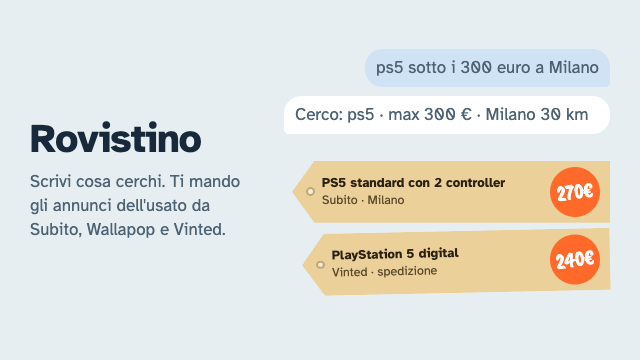
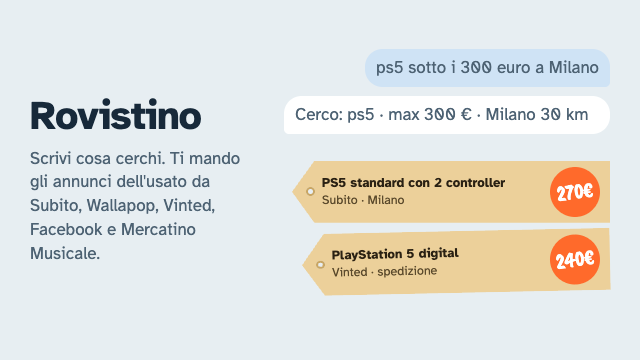
List all searched sites: Facebook Marketplace and Mercatino Musicale too

Changed region(s): [[0.0312, 0.275, 0.375, 0.4583], [0.0312, 0.55, 0.3438, 0.7333], [0.0312, 0.4889, 0.375, 0.5194]]

diff --git a/index.html b/index.html
@@ -4,11 +4,11 @@
   <meta charset="utf-8">
   <meta name="viewport" content="width=device-width, initial-scale=1">
   <title>Rovistino – Bot Telegram per cercare annunci usati</title>
-  <meta name="description" content="Rovistino è un bot Telegram gratuito che cerca annunci dell'usato su Subito, Wallapop e Vinted per prezzo, città e distanza.">
+  <meta name="description" content="Rovistino è un bot Telegram gratuito che cerca annunci dell'usato su Subito, Wallapop, Vinted, Facebook Marketplace e Mercatino Musicale per prezzo, città e distanza.">
   <meta name="robots" content="index, follow">
   <link rel="canonical" href="https://leixien.github.io/Rovistino/">
   <meta property="og:title" content="Rovistino – Bot Telegram per cercare annunci usati">
-  <meta property="og:description" content="Cerca annunci su Subito, Wallapop e Vinted direttamente da Telegram.">
+  <meta property="og:description" content="Cerca annunci su Subito, Wallapop, Vinted, Facebook Marketplace e Mercatino Musicale direttamente da Telegram.">
   <meta property="og:url" content="https://leixien.github.io/Rovistino/">
   <meta property="og:type" content="website">
   <meta property="og:image" content="https://leixien.github.io/Rovistino/assets/description.png">
@@ -27,7 +27,7 @@
     "@type": "SoftwareApplication",
     "name": "Rovistino",
     "alternateName": "@RovistinoBot",
-    "description": "Bot Telegram gratuito che cerca annunci dell'usato su Subito, Wallapop e Vinted per prezzo, città e distanza, con ricerche ripetute e avviso ribassi.",
+    "description": "Bot Telegram gratuito che cerca annunci dell'usato su Subito, Wallapop, Vinted, Facebook Marketplace e Mercatino Musicale per prezzo, città e distanza, con ricerche ripetute e avviso ribassi.",
     "url": "https://leixien.github.io/Rovistino/",
     "installUrl": "https://t.me/RovistinoBot",
     "applicationCategory": "UtilitiesApplication",
@@ -51,7 +51,7 @@
     <div class="wrap hero">
       <div>
         <h1>Rovistino: il bot Telegram per cercare annunci dell'usato</h1>
-        <p class="lede">Scrivi su Telegram cosa cerchi, con le tue parole. Rovistino cerca su Subito, Wallapop e Vinted e ti manda gli annunci più recenti, con prezzo e link.</p>
+        <p class="lede">Scrivi su Telegram cosa cerchi, con le tue parole. Rovistino cerca su Subito, Wallapop e Vinted, e se vuoi anche su Facebook Marketplace e Mercatino Musicale, e ti manda gli annunci più recenti, con prezzo e link.</p>
         <a class="button" href="https://t.me/RovistinoBot">Apri su Telegram</a>
       </div>
 
@@ -110,10 +110,10 @@
     <section>
       <div class="wrap"><div class="prose">
         <h2>Domande frequenti</h2>
-        <h3>Come ricevo un avviso quando esce un nuovo annuncio su Subito, Wallapop o Vinted?</h3>
+        <h3>Come ricevo un avviso quando esce un nuovo annuncio su Subito, Vinted o gli altri siti?</h3>
         <p>Accendi «Ricerca ripetuta» in <code>/funzioni</code>, poi scrivi per esempio <code>/ripeti ps5 max 300 a Milano ogni 15</code>. Il bot ripete la ricerca ogni 15 minuti (il minimo è 5) e ti scrive solo quando trova annunci nuovi.</p>
-        <h3>Posso cercare su Subito, Wallapop e Vinted insieme?</h3>
-        <p>Sì: una sola frase cerca su tutti e tre e ti mostra i risultati più recenti insieme. Con <code>/siti</code> scegli su quali cercare.</p>
+        <h3>Su quali siti cerca? Posso cercare su tutti insieme?</h3>
+        <p>Subito, Wallapop e Vinted sono accesi fin dall'inizio; Facebook Marketplace e Mercatino Musicale (strumenti musicali e audio) li accendi da <code>/siti</code>. Una sola frase cerca su tutti quelli accesi e ti mostra i risultati più recenti insieme. Facebook Marketplace ha bisogno di una città nella frase.</p>
         <h3>Mi avvisa se un annuncio abbassa il prezzo?</h3>
         <p>Sì, con «Avviso ribassi»: se un annuncio già visto da una ricerca ripetuta scende di prezzo, ricevi «Ribasso: 120 € → 95 €».</p>
         <h3>Come cerco solo vicino a me?</h3>
@@ -128,7 +128,7 @@
     <section>
       <div class="wrap"><div class="prose">
         <h2>Cosa non fa</h2>
-        <p>Rovistino cerca e basta. Non compra, non scrive ai venditori e non ti chiede di accedere ai tuoi account su Subito, Wallapop o Vinted. Con <code>/siti</code> scegli dove cercare. È gratuito e non mostra pubblicità. Se ti è utile puoi <a href="dona.html">offrirmi un caffè</a>.</p>
+        <p>Rovistino cerca e basta. Non compra, non scrive ai venditori e non ti chiede di accedere ai tuoi account su nessuno di questi siti. Con <code>/siti</code> scegli dove cercare. È gratuito e non mostra pubblicità. Se ti è utile puoi <a href="dona.html">offrirmi un caffè</a>.</p>
         <p>Per cancellare tutto quello che il bot ha salvato su di te, scrivigli <code>/cancella</code>. I dettagli sono nella <a href="privacy.html">privacy policy</a>.</p>
       </div></div>
     </section>
@@ -140,7 +140,7 @@
       <a href="privacy.html">Privacy policy</a>
       <span>Fatto da <a href="https://t.me/cringejon">@cringejon</a> su Telegram e <a href="https://github.com/Leixien">Leixien</a> su GitHub.</span>
       <a href="dona.html">Offrimi un caffè</a>
-      <span>Rovistino non è collegato a Subito, Wallapop o Vinted.</span>
+      <span>Rovistino non è collegato a Subito, Wallapop, Vinted, Facebook o Mercatino Musicale.</span>
     </div>
   </footer>
 </body>

diff --git a/privacy.html b/privacy.html
@@ -48,7 +48,7 @@
     <p>Solo a far funzionare il bot. Non li usiamo per pubblicità, profilazione o statistiche, non li vendiamo e non li condividiamo con nessuno.</p>
 
     <h2>Dove finiscono</h2>
-    <p>I dati restano in un database sul computer dove gira il bot. Quando cerchi qualcosa, il bot invia ai siti che hai scelto (Subito, Wallapop e Vinted) soltanto le parole, il prezzo e la zona della ricerca, senza nulla che ti identifichi. Se indichi una città, il suo nome viene inviato anche a <a href="https://nominatim.org">OpenStreetMap Nominatim</a> per trovarne le coordinate. I messaggi passano da Telegram, che li tratta secondo la <a href="https://telegram.org/privacy">sua privacy policy</a>.</p>
+    <p>I dati restano in un database sul computer dove gira il bot. Quando cerchi qualcosa, il bot invia ai siti che hai scelto (Subito, Wallapop, Vinted, Facebook Marketplace e Mercatino Musicale) soltanto le parole, il prezzo e la zona della ricerca, senza nulla che ti identifichi. Se indichi una città, il suo nome viene inviato anche a <a href="https://nominatim.org">OpenStreetMap Nominatim</a> per trovarne le coordinate. I messaggi passano da Telegram, che li tratta secondo la <a href="https://telegram.org/privacy">sua privacy policy</a>.</p>
     <p>La pagina <a href="dona.html">Offrimi un caffè</a> di questo sito mostra un riquadro di Ko-fi: se doni, i dati del pagamento li trattano Ko-fi e il circuito che scegli, secondo la <a href="https://more.ko-fi.com/privacy">privacy policy di Ko-fi</a>. Rovistino non li riceve.</p>
 
     <h2>Per quanto tempo</h2>

diff --git a/assets/description.html b/assets/description.html
@@ -24,7 +24,7 @@
   <div class="card">
     <div>
       <h1>Rovistino</h1>
-      <p>Scrivi cosa cerchi. Ti mando gli annunci dell'usato da Subito, Wallapop e Vinted.</p>
+      <p>Scrivi cosa cerchi. Ti mando gli annunci dell'usato da Subito, Wallapop, Vinted, Facebook e Mercatino Musicale.</p>
     </div>
     <div class="chat">
       <p class="bubble me">ps5 sotto i 300 euro a Milano</p>

diff --git a/README.md b/README.md
@@ -1,7 +1,7 @@
 # Rovistino
 
 Sito e privacy policy di [@RovistinoBot](https://t.me/RovistinoBot), il bot Telegram che cerca annunci
-dell'usato su Subito, Wallapop e Vinted.
+dell'usato su Subito, Wallapop, Vinted, Facebook Marketplace e Mercatino Musicale.
 
 Online su [leixien.github.io/Rovistino](https://leixien.github.io/Rovistino/). Autore:
 [@cringejon](https://t.me/cringejon) su Telegram. Se ti è utile: [offrimi un caffè](https://ko-fi.com/cringejon).
